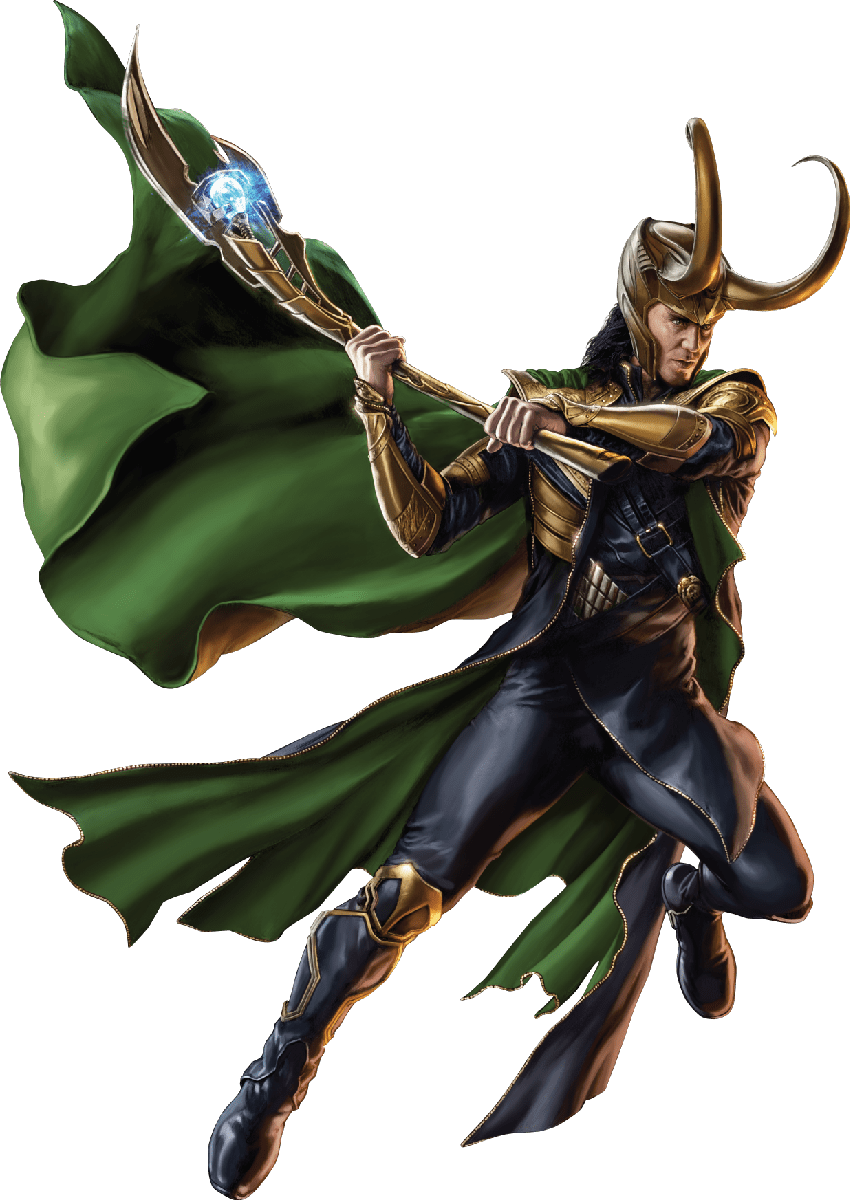
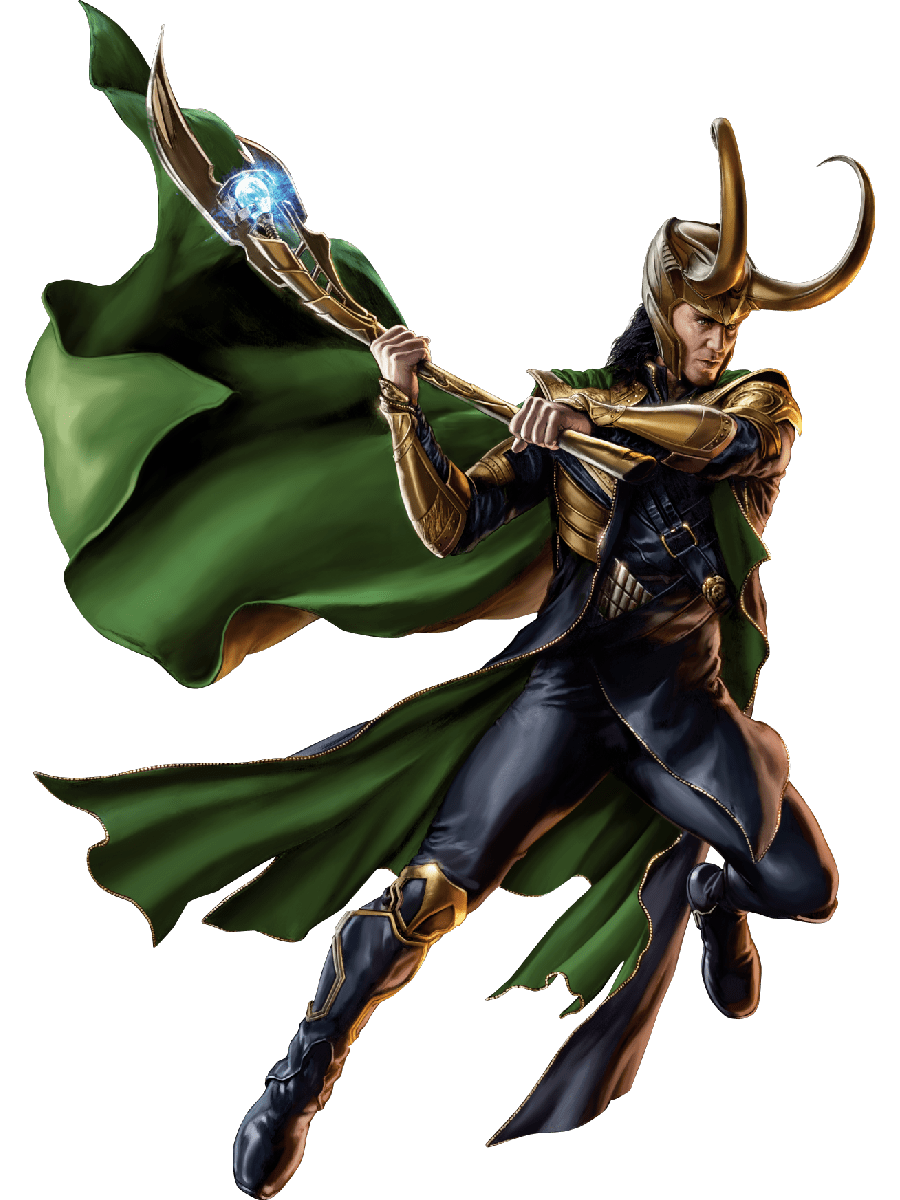
Add files via upload

diff --git a/contact.html b/contact.html
@@ -8,7 +8,7 @@
     <link rel="apple-touch-icon" sizes="180x180" href="apple-touch-icon.png" />
     <link rel="icon" type="image/png" sizes="32x32" href="favicon-32x32.png" />
     <link rel="icon" type="image/png" sizes="16x16" href="favicon-16x16.png" />
-<!--     <link rel="manifest" href="site.webmanifest" /> -->
+    <!-- <link rel="manifest" href="/site.webmanifest" /> -->
     <style>
         *{
             margin:0;
@@ -18,6 +18,13 @@
         body{
             text-align: center;
             font-family: cursive;
+        }
+        a{
+            margin: 3vw 3vh ;
+            text-decoration: none;
+            font-family:Verdana, Geneva, Tahoma, sans-serif;
+            font-weight: 2vh;
+            color: rgb(8, 6, 7);
         }
     </style>
 </head>

diff --git a/script.js b/script.js
@@ -16,8 +16,8 @@ if(isMobile)
 }
 else
 {
-    character_width=0.3*height;
-    character_height=0.4*height;
+    character_width=0.33*height;
+    character_height=0.45*height;
 }
 
 
@@ -89,7 +89,7 @@ const mainfunctionthis=setInterval(() => {
     let maincontainer=document.getElementsByClassName("maincontainer")[0];
 
 
-    if(lastchangedbg==5000)
+    if(lastchangedbg==10000)
     {
         lastchangedbg=0;
         countervariablebg++;
@@ -100,7 +100,7 @@ const mainfunctionthis=setInterval(() => {
         maincontainer.style.backgroundImage='url('+string+')';
     }
 
-    if(lastchangedhero==3000)
+    if(lastchangedhero==6000)
     {
         lastchangedhero=0;
         countervariablehero++;

diff --git a/index.html b/index.html
@@ -8,7 +8,7 @@
     <link rel="apple-touch-icon" sizes="180x180" href="apple-touch-icon.png" />
     <link rel="icon" type="image/png" sizes="32x32" href="favicon-32x32.png" />
     <link rel="icon" type="image/png" sizes="16x16" href="favicon-16x16.png" />
-<!--     <link rel="manifest" href="/site.webmanifest" /> -->
+    <!-- <link rel="manifest" href="/site.webmanifest" /> -->
     <link rel="stylesheet" href="style.css" />
     <script src="script.js"></script>
   </head>

diff --git a/about.html b/about.html
@@ -8,7 +8,7 @@
     <link rel="apple-touch-icon" sizes="180x180" href="apple-touch-icon.png" />
     <link rel="icon" type="image/png" sizes="32x32" href="favicon-32x32.png" />
     <link rel="icon" type="image/png" sizes="16x16" href="favicon-16x16.png" />
-<!--     <link rel="manifest" href="/site.webmanifest" /> -->
+    <!-- <link rel="manifest" href="/site.webmanifest" /> -->
     <style>
         *{
             margin: 0;

diff --git a/style.css b/style.css
@@ -33,7 +33,7 @@ a{
     background-repeat: no-repeat;
     background-size: cover;
     width: 30vh;
-    height: 40vh;
+    height: 39vh;
     position: absolute;
     bottom: 0;
     left: 0;
